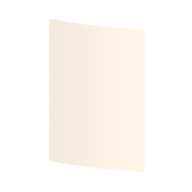
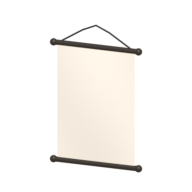
Promo poster on a hanger + the second text is his (no fixed KPM anywhere)
His words (2026-10-26 15:39, a phone frame of his TAWANG poster): "u need to redesign the
poster to show that it is a poster and also both of the text should be editable weird if
the other one is tawang but the other text is kpm its a whole different company".

The poster (tools/promo-goods/goods.py poster(), rebuilt with GOODS=poster): the paper hangs
from a bar at the top and the bottom with knobs on the ends and a cord to hang it by; flat
at the bars, a slight belly between them. Its print (promoGoods3d drawPrint 'poster') is a
promo design now: the paper colour, a burst of rays in the print colour behind the headline
(clipped to the frame), a printed frame, the headline on a black block, and his BOTTOM TEXT
on a black band - or no band when he typed none. The fixed "KPM" line is gone.

The second text: a new field per item, subText, asked only where it prints - BACK TEXT on
the T-shirt and the lighter (their back print), BOTTOM TEXT on the poster (GOODS_SECOND in
helpers.js). Saved trimmed to 18 like PRINTED TEXT. Empty: the back repeats the front word
(it used to say KPM), the poster has no bottom line. The flat 2D skin follows the same rule.
The only KPM left is the old fallback for an item whose name holds nothing but the goods
word (a bare "Lighter") - the word has to come from somewhere; typing PRINTED TEXT replaces it.

Checks (red first): promoLook's back = typed second text or the front word, the poster's
[…]

Changed region(s): [[0.25, 0.0938, 0.75, 0.9062]]

diff --git a/src/components/PromoLookFields.jsx b/src/components/PromoLookFields.jsx
@@ -1,5 +1,5 @@
 import React, { useState } from 'react';
-import { promoGoods, promoLook, promoWord, GOODS_PARTS } from '../utils/helpers';
+import { promoGoods, promoLook, promoWord, GOODS_PARTS, GOODS_SECOND } from '../utils/helpers';
 import PromoGoods3D from './PromoGoods3D';
 
 /* THE LOOK, in the product form (his 2026-10-26 "edit the color appearance on the 3D design, and change the name on it
@@ -12,8 +12,10 @@ export default function PromoLookFields({ product, previewRef }) {
     const [ink, setInk] = useState(product.printColor || '');
     const [trim, setTrim] = useState(product.trimColor || '');
     const [accent, setAccent] = useState(product.accentColor || '');
+    const [sub, setSub] = useState(product.subText || '');
     if (!promoGoods(product)) return <p className="text-[var(--duke-ink-8)]">Pick a TYPE to see the 3D model.</p>;
-    const shown = { ...product, printText: text, goodsColor: body, printColor: ink, trimColor: trim, accentColor: accent };
+    const shown = { ...product, printText: text, subText: sub, goodsColor: body, printColor: ink, trimColor: trim, accentColor: accent };
+    const second = GOODS_SECOND[promoGoods(product)];
     const look = promoLook(shown), parts = GOODS_PARTS[promoGoods(product)] || {};
     const swatch = 'w-14 h-10 p-0.5 bg-[var(--duke-veil)] border border-[var(--duke-veil-edge-2)] cursor-pointer';
     const field = 'w-full p-2 bg-[var(--duke-veil)] border border-[var(--duke-veil-edge-2)] text-[var(--duke-ink-hi)] focus:border-[var(--duke-amber-edge)] outline-none';
@@ -26,6 +28,10 @@ export default function PromoLookFields({ product, previewRef }) {
             <div><label htmlFor="printText" className="text-[var(--duke-ink-8)] block mb-1">PRINTED TEXT</label>
                 <input id="printText" name="printText" value={text} maxLength={18} onChange={(e) => setText(e.target.value)}
                     placeholder={`${promoWord({ ...product, printText: '' })} (from the name)`} className={`${field} uppercase`} /></div>
+            {GOODS_SECOND[promoGoods(product)] && (   /* the second text, only where it prints - his, never a fixed KPM */
+            <div><label htmlFor="subText" className="text-[var(--duke-ink-8)] block mb-1">{second}</label>
+                <input id="subText" name="subText" value={sub} maxLength={18} onChange={(e) => setSub(e.target.value)}
+                    placeholder={promoGoods(product) === 'poster' ? '(none)' : `${look.word} (same as the front)`} className={`${field} uppercase`} /></div>)}
             <div className="flex items-end gap-3 flex-wrap">
                 <label className="text-[var(--duke-ink-8)] flex flex-col gap-1">COLOR
                     <input type="color" name="goodsColor" value={look.body} onChange={(e) => setBody(e.target.value)} className="w-14 h-10 p-0.5 bg-[var(--duke-veil)] border border-[var(--duke-veil-edge-2)] cursor-pointer" /></label>

diff --git a/src/utils/promoGoods3d.js b/src/utils/promoGoods3d.js
@@ -16,7 +16,7 @@ import { GLTFLoader } from 'three/examples/jsm/loaders/GLTFLoader.js';
 import { RoomEnvironment } from 'three/examples/jsm/environments/RoomEnvironment.js';
 import { GOODS_PARTS } from './helpers';
 
-const BLACK = '#1c1814', CREAM = '#efe9df';
+const BLACK = '#1c1814';
 const BODY = new Set(['fabric', 'black', 'cream', 'paper', 'clear']);   // clear = the lighter's see-through plastic
 const TILT = { ashtray: 0.6, hat: 0.3 };   // looked at from above, or their print hides
 
@@ -33,12 +33,28 @@ const drawPrint = (word, aspect, style, look) => {
         g.fillStyle = color; g.textAlign = 'center'; g.textBaseline = 'middle'; g.fillText(text, x, y);
     };
     if (style === 'poster') {
-        const light = new THREE.Color(look.body).getHSL({}).l > 0.5;
+        /* a printed promo poster (his 2026-10-26 "redesign the poster to show that it is a poster"): the paper colour, a
+           burst of rays behind the headline, a frame, the headline on a black block, and his BOTTOM TEXT on a black band.
+           Nothing is printed that he did not type ("weird if the other one is tawang but the other text is kpm"). */
         g.fillStyle = look.body; g.fillRect(0, 0, W, H);
-        const bw = W * 0.84, bh = H * 0.26, bx = (W - bw) / 2, by = H * 0.30;
+        const m = W * 0.05, cx = W / 2, cy = H * 0.42;
+        // the burst, kept inside the frame
+        g.save(); g.beginPath(); g.rect(m, m, W - 2 * m, H - 2 * m); g.clip();
+        g.fillStyle = look.ink; g.globalAlpha = 0.22;
+        for (let k = 0; k < 32; k += 2) {
+            g.beginPath(); g.moveTo(cx, cy); g.arc(cx, cy, H, (k / 32) * Math.PI * 2, ((k + 1) / 32) * Math.PI * 2); g.closePath(); g.fill();
+        }
+        g.restore();
+        g.strokeStyle = look.ink; g.lineWidth = W * 0.014; g.strokeRect(m, m, W - 2 * m, H - 2 * m);
+        const bw = W * 0.8, bh = H * 0.22, bx = (W - bw) / 2, by = cy - bh / 2;
         g.fillStyle = BLACK; g.beginPath(); g.roundRect(bx, by, bw, bh, W * 0.04); g.fill();
-        fit(word, W / 2, by + bh / 2, bw * 0.84, bh * 0.56, look.ink);
-        fit('KPM', W / 2, H * 0.84, W * 0.36, H * 0.07, light ? BLACK : CREAM);
+        g.lineWidth = W * 0.008; g.stroke();
+        fit(word, cx, cy, bw * 0.84, bh * 0.56, look.ink);
+        if (look.sub) {
+            const sh = H * 0.1, sx = m + W * 0.04, sy = H - m - W * 0.04 - sh;
+            g.fillStyle = BLACK; g.fillRect(sx, sy, W - 2 * sx, sh);
+            fit(look.sub, cx, sy + sh / 2, (W - 2 * sx) * 0.86, sh * 0.6, look.ink);
+        }
     } else if (style === 'round') {
         g.fillStyle = look.body; g.beginPath(); g.arc(W / 2, H / 2, W / 2, 0, Math.PI * 2); g.fill();
         g.strokeStyle = look.ink; g.lineWidth = W * 0.014; g.beginPath(); g.arc(W / 2, H / 2, W * 0.44, 0, Math.PI * 2); g.stroke();

diff --git a/src/utils/helpers.js b/src/utils/helpers.js
@@ -310,12 +310,15 @@ export const promoLook = (product) => {
     const def = GOODS_LOOK[promoGoods(product)] || GOODS_LOOK.tshirt;
     const hex = (v) => (/^#[0-9a-f]{6}$/i.test(v || '') ? v.toLowerCase() : null);
     const body = hex(product?.goodsColor) || def.body, ink = hex(product?.printColor) || def.ink;
-    /* the back prints the text he typed; only an item with no printed text keeps KPM there (his "when i put the name on
-       the front here the back does have different name which is the default name") */
-    const own = String(product?.printText || '').trim();
+    /* THE SECOND TEXT is his too (his 2026-10-26 "both of the text should be editable weird if the other one is tawang but
+       the other text is kpm its a whole different company"): subText prints on the back (T-shirt, lighter) and as the
+       poster's bottom line. Empty: the back repeats the front word, the poster has no bottom line - never a fixed KPM. */
+    const sub = String(product?.subText || '').trim().toUpperCase().slice(0, 18);
     return { body, ink, trim: hex(product?.trimColor) || def.trim || body, accent: hex(product?.accentColor) || ink,
-        word: promoWord(product), back: own ? promoWord(product) : 'KPM' };
+        word: promoWord(product), back: sub || promoWord(product), sub };
 };
+/* where the second text prints, and the label the form gives it - a type without one gets no field */
+export const GOODS_SECOND = { tshirt: 'BACK TEXT', lighter: 'BACK TEXT', poster: 'BOTTOM TEXT' };
 
 /* The flat picture of a promo item with no photo (his 2026-10-26 "default skin for the 3D promo item like on the
    preview"): the lab's T-shirt card - cream, a black shape, a gold word ON the black (gold never as text on light).

diff --git a/tools/ponder-lab.jsx b/tools/ponder-lab.jsx
@@ -1325,6 +1325,9 @@ function PromoLookLab() {
     { id: 'l3', name: 'Mug', kind: 'promo', goods: 'mug', goodsColor: '#efe9df', trimColor: '#b3242e' },
     /* his 15:27 phone frame: an all-yellow TAWANG lighter (COLOR, PRINT COLOR and LEVER yellow) */
     { id: 'l4', name: 'Korek TAWANG', kind: 'promo', goods: 'lighter', printText: 'TAWANG', goodsColor: '#ffb000', printColor: '#ffb000', trimColor: '#ffb000' },
+    /* his 15:39 frame: the TAWANG poster - with his BOTTOM TEXT, and with none (no fixed KPM any more) */
+    { id: 'l5', name: 'TAWANG', kind: 'promo', goods: 'poster', printText: 'TAWANG ISI 16', subText: 'KRETEK PILIHAN' },
+    { id: 'l6', name: 'Poster TAWANG', kind: 'promo', goods: 'poster', goodsColor: '#b3242e' },
   ];
   return (
     <div style={{ background: '#0A0908', minHeight: '100vh', padding: 16, display: 'grid', gap: 16, gridTemplateColumns: 'repeat(auto-fit, minmax(300px, 1fr))', fontSize: 13 }}>

diff --git a/src/App.jsx b/src/App.jsx
@@ -3657,6 +3657,7 @@ const handleGitHubMirror = async () => {
               if ('trimColor' in data) data.trimColor = hex(data.trimColor) === trimDef ? '' : hex(data.trimColor);
               if ('accentColor' in data) data.accentColor = hex(data.accentColor) === ink ? '' : hex(data.accentColor);
               data.printText = String(data.printText || '').trim().slice(0, 18);
+              data.subText = String(data.subText || '').trim().slice(0, 18);   // the back / the poster's bottom line - '' = none of his
               const thumb = goodsPreviewRef.current?.snapshot?.();
               if (thumb) data.thumb = thumb;   // the Master Vault list picture, in this item's colours
           }

diff --git a/src/components/PromoGoods3D.jsx b/src/components/PromoGoods3D.jsx
@@ -21,7 +21,7 @@ const PromoGoods3D = forwardRef(function PromoGoods3D({ product, drag = false, c
         return () => { live = false; handle.current?.(); handle.current = null; };
     }, [goods, drag, failed]);
 
-    useEffect(() => { handle.current?.set(look); }, [look.body, look.ink, look.trim, look.accent, look.word, look.back]);   // eslint-disable-line react-hooks/exhaustive-deps
+    useEffect(() => { handle.current?.set(look); }, [look.body, look.ink, look.trim, look.accent, look.word, look.back, look.sub]);   // eslint-disable-line react-hooks/exhaustive-deps
 
     useImperativeHandle(ref, () => ({ snapshot: () => handle.current?.snapshot() || null }), []);
 

diff --git a/tools/promo-goods/goods.py b/tools/promo-goods/goods.py
@@ -277,12 +277,24 @@ def tshirt():
     return [body, front, back] + collars
 
 def poster():
-    W, H, bow = 0.70, 0.99, 0.035
-    front = sheet('print_front', 24, 1, lambda u, v: ((u - 0.5) * W, -bow * math.sin(math.pi * u), v * H),
+    """A poster on a hanger (his 2026-10-26 "redesign the poster to show that it is a poster" - the first one was a bare
+    curved sheet, which read as a card): the paper held by a bar at the top and the bottom, knobs on the bar ends, a cord
+    to hang it by. The paper is flat at the bars and bellies a little between them, like real poster paper."""
+    W, H, bow = 0.70, 0.99, 0.03
+    belly = lambda u, v: -bow * math.sin(math.pi * u) * math.sin(math.pi * v)
+    front = sheet('print_front', 16, 12, lambda u, v: ((u - 0.5) * W, belly(u, v), v * H),
                   mat('print_poster', '#efe9df', 0.8), {'print': 'front', 'aspect': W / H, 'style': 'poster'})
-    back = sheet('poster_back', 24, 1, lambda u, v: ((u - 0.5) * W, -bow * math.sin(math.pi * u) + 0.004, v * H),
-                 PAPER, reverse=True)
-    return [front, back]
+    back = sheet('poster_back', 16, 12, lambda u, v: ((u - 0.5) * W, belly(u, v) + 0.004, v * H), PAPER, reverse=True)
+    rail = mat('rail', '#2a211a', 0.55)
+    RY = Matrix.Rotation(math.pi / 2, 4, 'Y')
+    rails = [cyl(f'poster_rail_{side}', 0.022, W + 0.05, Matrix.Translation((0, 0.002, z)) @ RY, rail, 24)
+             for side, z in (('top', H + 0.006), ('bottom', -0.006))]
+    knobs = [sphere(f'poster_knob{i}', 0.03, (1, 1, 1), (x, 0.002, z), rail)
+             for i, (x, z) in enumerate(((-(W / 2 + 0.035), H + 0.006), (W / 2 + 0.035, H + 0.006),
+                                         (-(W / 2 + 0.035), -0.006), (W / 2 + 0.035, -0.006)))]
+    cord = tube('poster_cord', [(-(W / 2 - 0.03), 0.002, H + 0.02), (-0.12, 0.002, H + 0.14), (0, 0.002, H + 0.19),
+                                (0.12, 0.002, H + 0.14), (W / 2 - 0.03, 0.002, H + 0.02)], 0.006, mat('cord', '#1c1814', 0.7))
+    return [front, back, *rails, *knobs, cord]
 
 # ---------------------------------------------------------------- export
 
